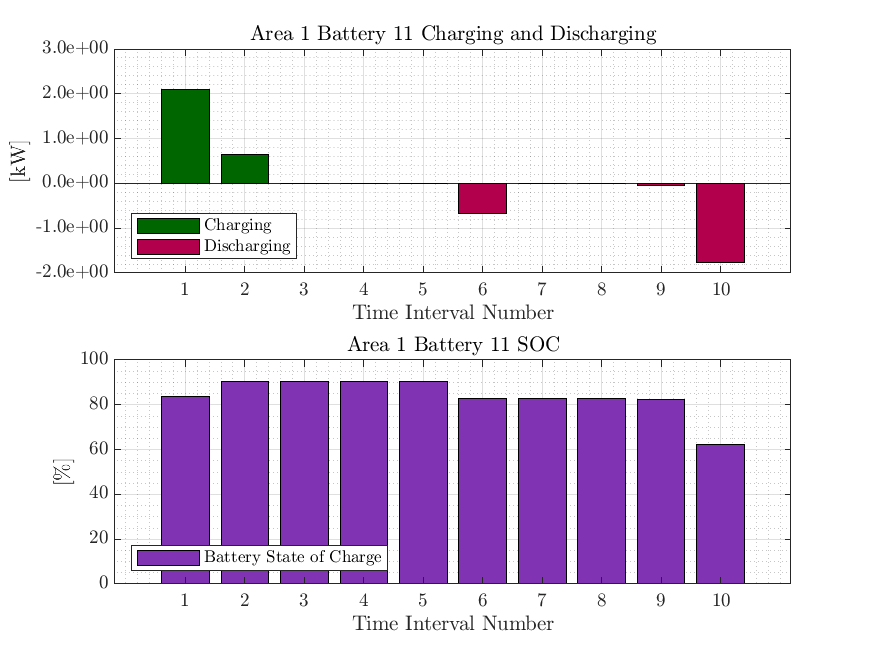
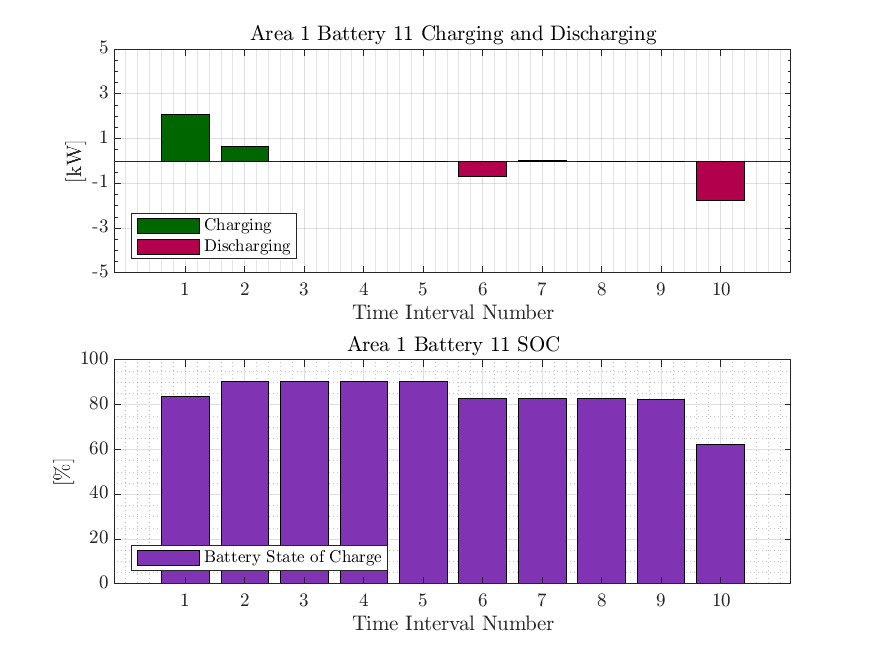
Making sure that pesky unchecked small `Pc/Pd` values don't ruin my plot by dynamically resizing both the axes limits and the tick labels.

diff --git a/functions/checkForSCD.m b/functions/checkForSCD.m
@@ -58,11 +58,38 @@ function checkForSCD(sysInfo, simInfo, areaInfo, T, x, varargin)
         % keyboard;
         % Modify y-tick labels for Pd to be positive
         ax = gca;
-        ax.YTickLabel = cellfun(@(v) num2str(abs(str2double(v))), ax.YTickLabel, 'UniformOutput', false);
-        ax.YAxis.Exponent = 0;
-        ax.YTickLabel = arrayfun(@(v) sprintf('%.1e', v), ax.YTick, 'UniformOutput', false);
+        % ax.YTickLabel = cellfun(@(v) num2str(abs(str2double(v))), ax.YTickLabel, 'UniformOutput', false);
+        % ax.YTickLabel = arrayfun(@(v) num2str(v, '%.1f'), ax.YTick, 'UniformOutput', false);  % Format as float with 1 decimal
+        % ax.YAxis.Exponent = 0;
+        % ax.YTickLabel = arrayfun(@(v) sprintf('%.1e', v), ax.YTick, 'UniformOutput', false);
+        
+        % Set y-axis limits and ticks
+        % ylimlb = min(-1, -max(ceil(Pd_1toT_kW)));
+        % ylimub = max(1, max(ceil(Pc_1toT_kW)));
+        % ylim([ylimlb ylimub]);
+        % yticks(-ylimlb:1:ylimub);  % This sets the main ticks to be at every integer and minor ticks at every 0.1
+        % ax = gca;
+        % ax.YAxis.Exponent = 0;  % Turns off scientific notation
+        % Determine dynamic range for y-axis based on data
+        maxCharging = max(Pc_1toT_kW);
+        maxDischarging = max(abs(Pd_1toT_kW));
+        maxYValue = max(maxCharging, maxDischarging);
+        maxYValue = ceil(maxYValue / 5) * 5; % Round up to the nearest 10 for aesthetics
+        ylim([-maxYValue maxYValue]);
+        yticks(linspace(-maxYValue, maxYValue, 6)); % Set y-ticks at every integer within the range
 
-    % ... o
+        % Adjust tick labels and grid
+        ax = gca;
+        ax.YAxis.Exponent = 0;  % Ensure no scientific notation
+        ax.YTickLabel = arrayfun(@(v) num2str(v, '%d'), ax.YTick, 'UniformOutput', false);
+
+        % Turn on minor grid lines
+        ax.MinorGridLineStyle = '-';
+        ax.MinorGridColor = [0.8 0.8 0.8];
+        ax.MinorGridAlpha = 0.5;
+        ax.YMinorGrid = 'on';
+        ax.YMinorTick = 'on';
+
         title(sprintf('Area %d Battery %d Charging and Discharging', areaInfo.Area, batt_num));
         xlabel('Time Interval Number');
         ylabel('[kW]');

diff --git a/main_m.m b/main_m.m
@@ -24,13 +24,13 @@ logging = true;
 logging_Aeq_beq = false;
 systemName = 'ieee123'
 objFunction = "loss_min"
-numAreas = 4
-T = 3
+numAreas = 1
+T = 10
 macroItrMax = 100; % Max no. of permissible iterations for optimizing an area
 noBatteries = false;
 alpha = 1e-3;
 % gamma = 1e-1;
-batteryTerminalChargeConstraint = "soft";
+batteryTerminalChargeConstraint = "hard";
 if strcmp(batteryTerminalChargeConstraint, "soft")
     gamma = 1e0;
 else
@@ -282,9 +282,9 @@ sysInfo = getSysInfo(sysInfo, simInfo, systemName, ...
 % end
 
 while keepRunningIterations
-    % for Area = 1:numAreas
+    for Area = 1:numAreas
     % for Area = 1
-    for Area = [2 3 1 4]
+    % for Area = [2 3 1 4]
         macroItr = simInfo.macroItr;
         myfprintf(true, "Macro-iteration %d: Running OPF for Area %d.\n", macroItr+1, Area);
 
